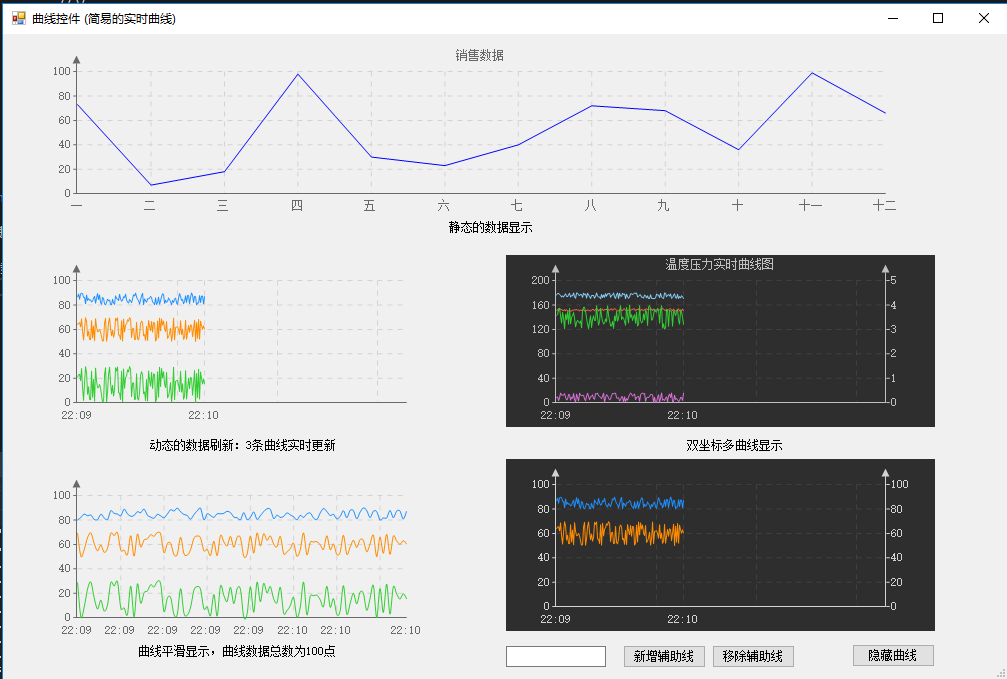
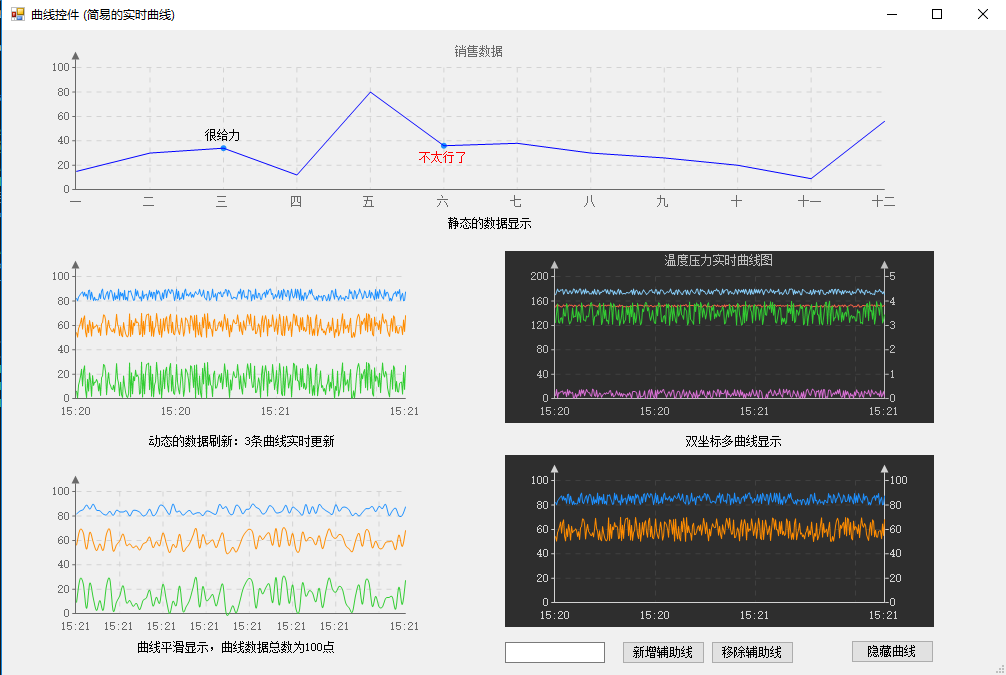
feat(release): v1.2.6

diff --git a/HslControlsDemo/FormCurveHistory.Designer.cs b/HslControlsDemo/FormCurveHistory.Designer.cs
@@ -35,6 +35,12 @@
             this.checkBox1 = new System.Windows.Forms.CheckBox();
             this.checkBox2 = new System.Windows.Forms.CheckBox();
             this.hslCurveHistory1 = new HslControls.HslCurveHistory();
+            this.button6 = new System.Windows.Forms.Button();
+            this.button5 = new System.Windows.Forms.Button();
+            this.label2 = new System.Windows.Forms.Label();
+            this.textBox2 = new System.Windows.Forms.TextBox();
+            this.label1 = new System.Windows.Forms.Label();
+            this.textBox1 = new System.Windows.Forms.TextBox();
             this.SuspendLayout();
             // 
             // button1
@@ -124,11 +130,77 @@
             this.hslCurveHistory1.ValueSegment = 25;
             this.hslCurveHistory1.onCurveDoubleClick += new HslControls.HslCurveHistory.CurveDoubleClick(this.hslCurveHistory1_onCurveDoubleClick);
             // 
+            // button6
+            // 
+            this.button6.Anchor = ((System.Windows.Forms.AnchorStyles)((System.Windows.Forms.AnchorStyles.Bottom | System.Windows.Forms.AnchorStyles.Left)));
+            this.button6.Location = new System.Drawing.Point(882, 613);
+            this.button6.Name = "button6";
+            this.button6.Size = new System.Drawing.Size(86, 23);
+            this.button6.TabIndex = 18;
+            this.button6.Text = "移除所有";
+            this.button6.UseVisualStyleBackColor = true;
+            this.button6.Click += new System.EventHandler(this.button6_Click);
+            // 
+            // button5
+            // 
+            this.button5.Anchor = ((System.Windows.Forms.AnchorStyles)((System.Windows.Forms.AnchorStyles.Bottom | System.Windows.Forms.AnchorStyles.Left)));
+            this.button5.Location = new System.Drawing.Point(821, 614);
+            this.button5.Name = "button5";
+            this.button5.Size = new System.Drawing.Size(55, 23);
+            this.button5.TabIndex = 17;
+            this.button5.Text = "增加";
+            this.button5.UseVisualStyleBackColor = true;
+            this.button5.Click += new System.EventHandler(this.button5_Click);
+            // 
+            // label2
+            // 
+            this.label2.Anchor = ((System.Windows.Forms.AnchorStyles)((System.Windows.Forms.AnchorStyles.Bottom | System.Windows.Forms.AnchorStyles.Left)));
+            this.label2.AutoSize = true;
+            this.label2.Location = new System.Drawing.Point(698, 619);
+            this.label2.Name = "label2";
+            this.label2.Size = new System.Drawing.Size(29, 12);
+            this.label2.TabIndex = 16;
+            this.label2.Text = "标注";
+            // 
+            // textBox2
+            // 
+            this.textBox2.Anchor = ((System.Windows.Forms.AnchorStyles)((System.Windows.Forms.AnchorStyles.Bottom | System.Windows.Forms.AnchorStyles.Left)));
+            this.textBox2.Location = new System.Drawing.Point(740, 614);
+            this.textBox2.Name = "textBox2";
+            this.textBox2.Size = new System.Drawing.Size(75, 21);
+            this.textBox2.TabIndex = 15;
+            this.textBox2.Text = "标注信息";
+            // 
+            // label1
+            // 
+            this.label1.Anchor = ((System.Windows.Forms.AnchorStyles)((System.Windows.Forms.AnchorStyles.Bottom | System.Windows.Forms.AnchorStyles.Left)));
+            this.label1.AutoSize = true;
+            this.label1.Location = new System.Drawing.Point(589, 618);
+            this.label1.Name = "label1";
+            this.label1.Size = new System.Drawing.Size(29, 12);
+            this.label1.TabIndex = 14;
+            this.label1.Text = "索引";
+            // 
+            // textBox1
+            // 
+            this.textBox1.Anchor = ((System.Windows.Forms.AnchorStyles)((System.Windows.Forms.AnchorStyles.Bottom | System.Windows.Forms.AnchorStyles.Left)));
+            this.textBox1.Location = new System.Drawing.Point(631, 613);
+            this.textBox1.Name = "textBox1";
+            this.textBox1.Size = new System.Drawing.Size(51, 21);
+            this.textBox1.TabIndex = 13;
+            this.textBox1.Text = "100";
+            // 
             // FormCurveHistory
             // 
             this.AutoScaleDimensions = new System.Drawing.SizeF(6F, 12F);
             this.AutoScaleMode = System.Windows.Forms.AutoScaleMode.Font;
             this.ClientSize = new System.Drawing.Size(1004, 645);
+            this.Controls.Add(this.button6);
+            this.Controls.Add(this.button5);
+            this.Controls.Add(this.label2);
+            this.Controls.Add(this.textBox2);
+            this.Controls.Add(this.label1);
+            this.Controls.Add(this.textBox1);
             this.Controls.Add(this.checkBox2);
             this.Controls.Add(this.checkBox1);
             this.Controls.Add(this.button4);
@@ -154,5 +226,11 @@
         private System.Windows.Forms.Button button4;
         private System.Windows.Forms.CheckBox checkBox1;
         private System.Windows.Forms.CheckBox checkBox2;
+        private System.Windows.Forms.Button button6;
+        private System.Windows.Forms.Button button5;
+        private System.Windows.Forms.Label label2;
+        private System.Windows.Forms.TextBox textBox2;
+        private System.Windows.Forms.Label label1;
+        private System.Windows.Forms.TextBox textBox1;
     }
 }

diff --git a/HslControlsDemo/FormCurveHistory2.Designer.cs b/HslControlsDemo/FormCurveHistory2.Designer.cs
@@ -35,6 +35,12 @@
             this.checkBox1 = new System.Windows.Forms.CheckBox();
             this.checkBox2 = new System.Windows.Forms.CheckBox();
             this.hslCurveHistory1 = new HslControls.HslCurveHistory();
+            this.textBox1 = new System.Windows.Forms.TextBox();
+            this.label1 = new System.Windows.Forms.Label();
+            this.label2 = new System.Windows.Forms.Label();
+            this.textBox2 = new System.Windows.Forms.TextBox();
+            this.button5 = new System.Windows.Forms.Button();
+            this.button6 = new System.Windows.Forms.Button();
             this.SuspendLayout();
             // 
             // button1
@@ -127,11 +133,77 @@
             this.hslCurveHistory1.ValueSegment = 25;
             this.hslCurveHistory1.onCurveDoubleClick += new HslControls.HslCurveHistory.CurveDoubleClick(this.hslCurveHistory1_onCurveDoubleClick);
             // 
+            // textBox1
+            // 
+            this.textBox1.Anchor = ((System.Windows.Forms.AnchorStyles)((System.Windows.Forms.AnchorStyles.Bottom | System.Windows.Forms.AnchorStyles.Left)));
+            this.textBox1.Location = new System.Drawing.Point(655, 613);
+            this.textBox1.Name = "textBox1";
+            this.textBox1.Size = new System.Drawing.Size(51, 21);
+            this.textBox1.TabIndex = 7;
+            this.textBox1.Text = "100";
+            // 
+            // label1
+            // 
+            this.label1.Anchor = ((System.Windows.Forms.AnchorStyles)((System.Windows.Forms.AnchorStyles.Bottom | System.Windows.Forms.AnchorStyles.Left)));
+            this.label1.AutoSize = true;
+            this.label1.Location = new System.Drawing.Point(613, 618);
+            this.label1.Name = "label1";
+            this.label1.Size = new System.Drawing.Size(29, 12);
+            this.label1.TabIndex = 8;
+            this.label1.Text = "索引";
+            // 
+            // label2
+            // 
+            this.label2.Anchor = ((System.Windows.Forms.AnchorStyles)((System.Windows.Forms.AnchorStyles.Bottom | System.Windows.Forms.AnchorStyles.Left)));
+            this.label2.AutoSize = true;
+            this.label2.Location = new System.Drawing.Point(722, 619);
+            this.label2.Name = "label2";
+            this.label2.Size = new System.Drawing.Size(29, 12);
+            this.label2.TabIndex = 10;
+            this.label2.Text = "标注";
+            // 
+            // textBox2
+            // 
+            this.textBox2.Anchor = ((System.Windows.Forms.AnchorStyles)((System.Windows.Forms.AnchorStyles.Bottom | System.Windows.Forms.AnchorStyles.Left)));
+            this.textBox2.Location = new System.Drawing.Point(764, 614);
+            this.textBox2.Name = "textBox2";
+            this.textBox2.Size = new System.Drawing.Size(75, 21);
+            this.textBox2.TabIndex = 9;
+            this.textBox2.Text = "标注信息";
+            // 
+            // button5
+            // 
+            this.button5.Anchor = ((System.Windows.Forms.AnchorStyles)((System.Windows.Forms.AnchorStyles.Bottom | System.Windows.Forms.AnchorStyles.Left)));
+            this.button5.Location = new System.Drawing.Point(845, 614);
+            this.button5.Name = "button5";
+            this.button5.Size = new System.Drawing.Size(55, 23);
+            this.button5.TabIndex = 11;
+            this.button5.Text = "增加";
+            this.button5.UseVisualStyleBackColor = true;
+            this.button5.Click += new System.EventHandler(this.button5_Click);
+            // 
+            // button6
+            // 
+            this.button6.Anchor = ((System.Windows.Forms.AnchorStyles)((System.Windows.Forms.AnchorStyles.Bottom | System.Windows.Forms.AnchorStyles.Left)));
+            this.button6.Location = new System.Drawing.Point(906, 613);
+            this.button6.Name = "button6";
+            this.button6.Size = new System.Drawing.Size(86, 23);
+            this.button6.TabIndex = 12;
+            this.button6.Text = "移除所有";
+            this.button6.UseVisualStyleBackColor = true;
+            this.button6.Click += new System.EventHandler(this.button6_Click);
+            // 
             // FormCurveHistory2
             // 
             this.AutoScaleDimensions = new System.Drawing.SizeF(6F, 12F);
             this.AutoScaleMode = System.Windows.Forms.AutoScaleMode.Font;
             this.ClientSize = new System.Drawing.Size(1004, 645);
+            this.Controls.Add(this.button6);
+            this.Controls.Add(this.button5);
+            this.Controls.Add(this.label2);
+            this.Controls.Add(this.textBox2);
+            this.Controls.Add(this.label1);
+            this.Controls.Add(this.textBox1);
             this.Controls.Add(this.checkBox2);
             this.Controls.Add(this.checkBox1);
             this.Controls.Add(this.button4);
@@ -157,5 +229,11 @@
         private System.Windows.Forms.Button button4;
         private System.Windows.Forms.CheckBox checkBox1;
         private System.Windows.Forms.CheckBox checkBox2;
+        private System.Windows.Forms.TextBox textBox1;
+        private System.Windows.Forms.Label label1;
+        private System.Windows.Forms.Label label2;
+        private System.Windows.Forms.TextBox textBox2;
+        private System.Windows.Forms.Button button5;
+        private System.Windows.Forms.Button button6;
     }
 }

diff --git a/HslControlsDemo/FormCurveHistory2.cs b/HslControlsDemo/FormCurveHistory2.cs
@@ -135,5 +135,31 @@ namespace HslControlsDemo
         {
             MessageBox.Show( $"Index: {index} Time:{dateTime.ToString( )}" );
         }
+
+        private void button5_Click( object sender, EventArgs e )
+        {
+            if(int.TryParse(textBox1.Text, out int index ))
+            {
+                hslCurveHistory1.AddMarkText( new HslControls.HslMarkText( )
+                {
+                    Index = index,
+                    CurveKey = "温度",
+                    MarkText = textBox2.Text,
+                    CircleBrush = Brushes.DodgerBlue,
+                    TextBrush = Brushes.Blue
+                } );
+                hslCurveHistory1.RenderCurveUI( );
+            }
+            else
+            {
+                MessageBox.Show( "Input Error" );
+            }
+        }
+
+        private void button6_Click( object sender, EventArgs e )
+        {
+            hslCurveHistory1.RemoveAllMarkText( );
+            hslCurveHistory1.RenderCurveUI( );
+        }
     }
 }

diff --git a/HslControlsDemo/FormCurveHistory.cs b/HslControlsDemo/FormCurveHistory.cs
@@ -130,5 +130,31 @@ namespace HslControlsDemo
         {
             MessageBox.Show( $"Index: {index} Time:{dateTime.ToString( )}" );
         }
+
+        private void button5_Click( object sender, EventArgs e )
+        {
+            if (int.TryParse( textBox1.Text, out int index ))
+            {
+                hslCurveHistory1.AddMarkText( new HslControls.HslMarkText( )
+                {
+                    Index = index,
+                    CurveKey = "温度",
+                    MarkText = textBox2.Text,
+                    CircleBrush = Brushes.HotPink,
+                    TextBrush = Brushes.Pink
+                } );
+                hslCurveHistory1.RenderCurveUI( );
+            }
+            else
+            {
+                MessageBox.Show( "Input Error" );
+            }
+        }
+
+        private void button6_Click( object sender, EventArgs e )
+        {
+            hslCurveHistory1.RemoveAllMarkText( );
+            hslCurveHistory1.RenderCurveUI( );
+        }
     }
 }

diff --git a/HslControlsDemo/FormCurve.cs b/HslControlsDemo/FormCurve.cs
@@ -36,6 +36,19 @@ namespace HslControlsDemo
 
             hslCurve1.SetCurveText( new string[] { "一", "二", "三", "四", "五", "六", "七", "八", "九", "十", "十一", "十二" } );
             hslCurve1.SetLeftCurve( "A", GetRandomData( 12, 100 ), Color.Blue );
+            hslCurve1.AddMarkText( new HslControls.HslMarkText( )
+            {
+                Index = 2,
+                CurveKey = "A",
+                MarkText = "很给力"
+            } );
+            hslCurve1.AddMarkText( new HslControls.HslMarkText( )
+            {
+                Index = 5,
+                CurveKey = "A",
+                MarkText = "不太行了",
+                TextBrush = Brushes.Red
+            } );
 
             hslCurve3.SetLeftCurve( "A", null, Color.DodgerBlue );
             hslCurve3.SetLeftCurve( "B", null, Color.DarkOrange );

diff --git a/HslControlsDemo/Program.cs b/HslControlsDemo/Program.cs
@@ -14,7 +14,11 @@ namespace HslControlsDemo
         static void Main( )
         {
             // 注册控件示例，如果注册失败，你的控件仍然只能使用8个小时
-            HslControls.Authorization.SetAuthorizationCode( "你的授权码" );
+            bool isSuccess = HslControls.Authorization.SetAuthorizationCode( "你的授权码" );
+            if (!isSuccess)
+            {
+                Console.WriteLine( "注册失败" );
+            }
 
             Application.EnableVisualStyles( );
             Application.SetCompatibleTextRenderingDefault( false );

diff --git a/HslControlsDemo/FormLoad.cs b/HslControlsDemo/FormLoad.cs
@@ -174,7 +174,7 @@ namespace HslControlsDemo
             System.Threading.ThreadPool.QueueUserWorkItem( new System.Threading.WaitCallback( ThreadPoolCheckVersion ), null );
         }
 
-        private HslCommunication.BasicFramework.SystemVersion versionCurr = new HslCommunication.BasicFramework.SystemVersion( "1.2.4" );
+        private HslCommunication.BasicFramework.SystemVersion versionCurr = new HslCommunication.BasicFramework.SystemVersion( "1.2.6" );
 
         private void ThreadPoolCheckVersion( object obj )
         {
